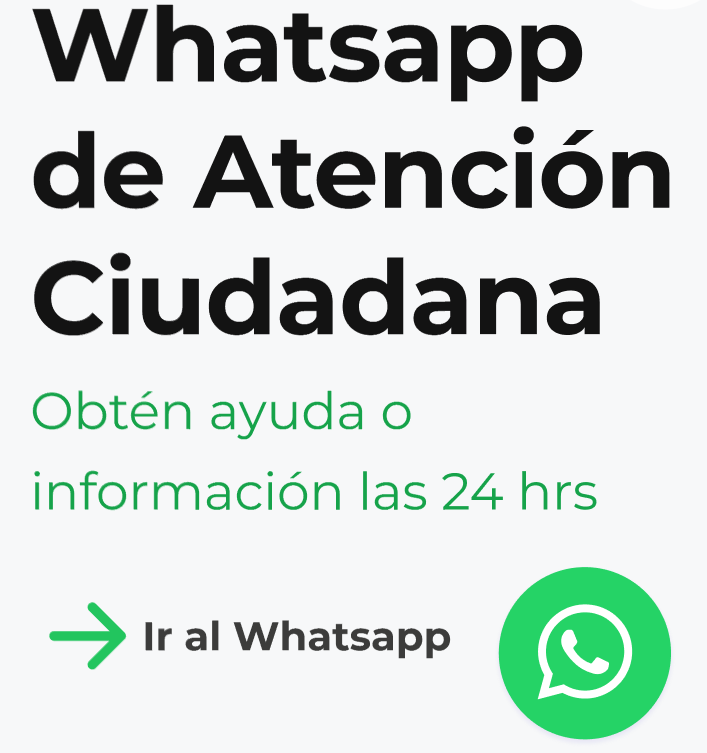
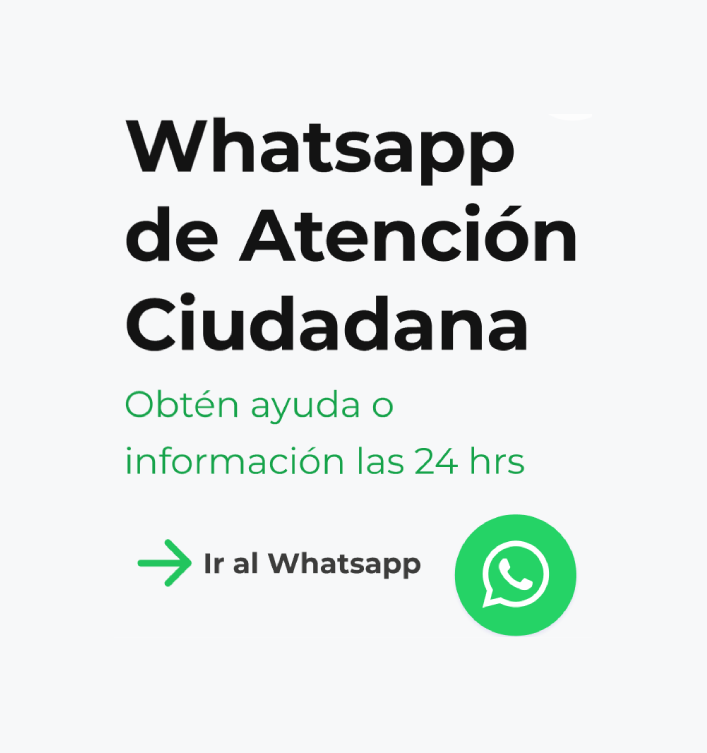
actualizacion de responsividad y mejora de calidad de imagenes

diff --git a/src/App.css b/src/App.css
@@ -230,20 +230,20 @@
 /* Estilos específicos para cada imagen */
 .card-1 {
   max-width: 100%;
-  max-height: 410px;
+  max-height: 335px;
 }
 
 .card-2,
 .card-3 {
-  max-width: 100%;
-  height: 410px;
+  width: 279px;
+  height: 335px;
 }
 
 
 .card-4 {
-  max-width: 100%;
+  width: 509px;
   max-height: 550px;
-  min-height: 550px;
+
 
 }
 
@@ -351,6 +351,21 @@
   box-shadow: 0 8px 16px rgba(0, 0, 0, 0.3);
 }
 
+.titulo-card4 {
+  font-family: 'Montserrat', sans-serif;
+  font-style: normal;
+  font-weight: 700;
+  font-size: 36px;
+  line-height: 44px;
+  /* or 122% */
+
+  text-align: center;
+  letter-spacing: -0.01em;
+
+  /* Black */
+
+  color: #131313;
+}
 
 .titulo-card5 {
   font-family: 'Montserrat', sans-serif;
